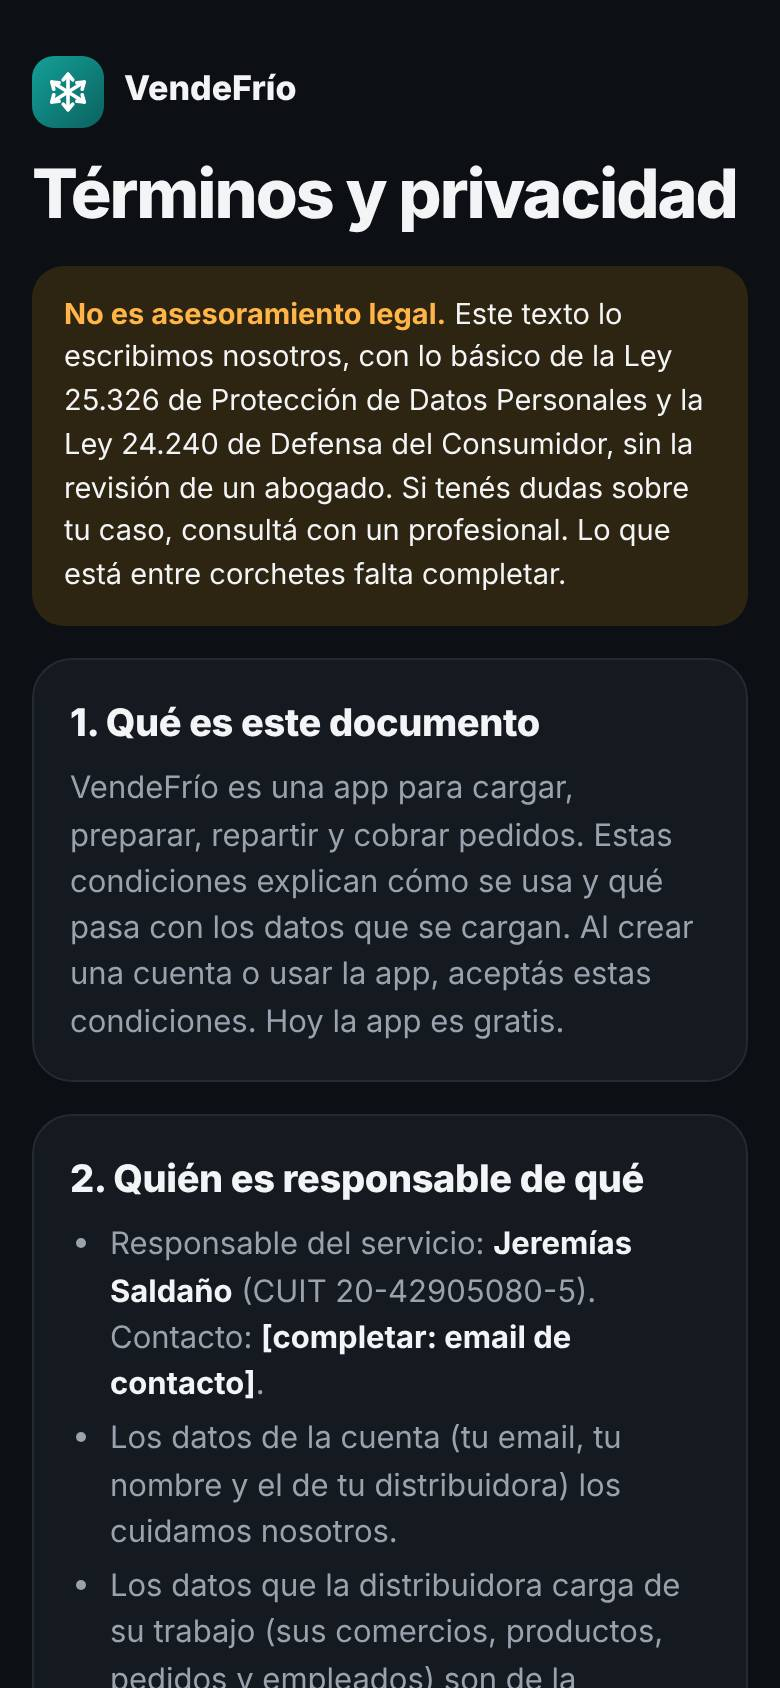
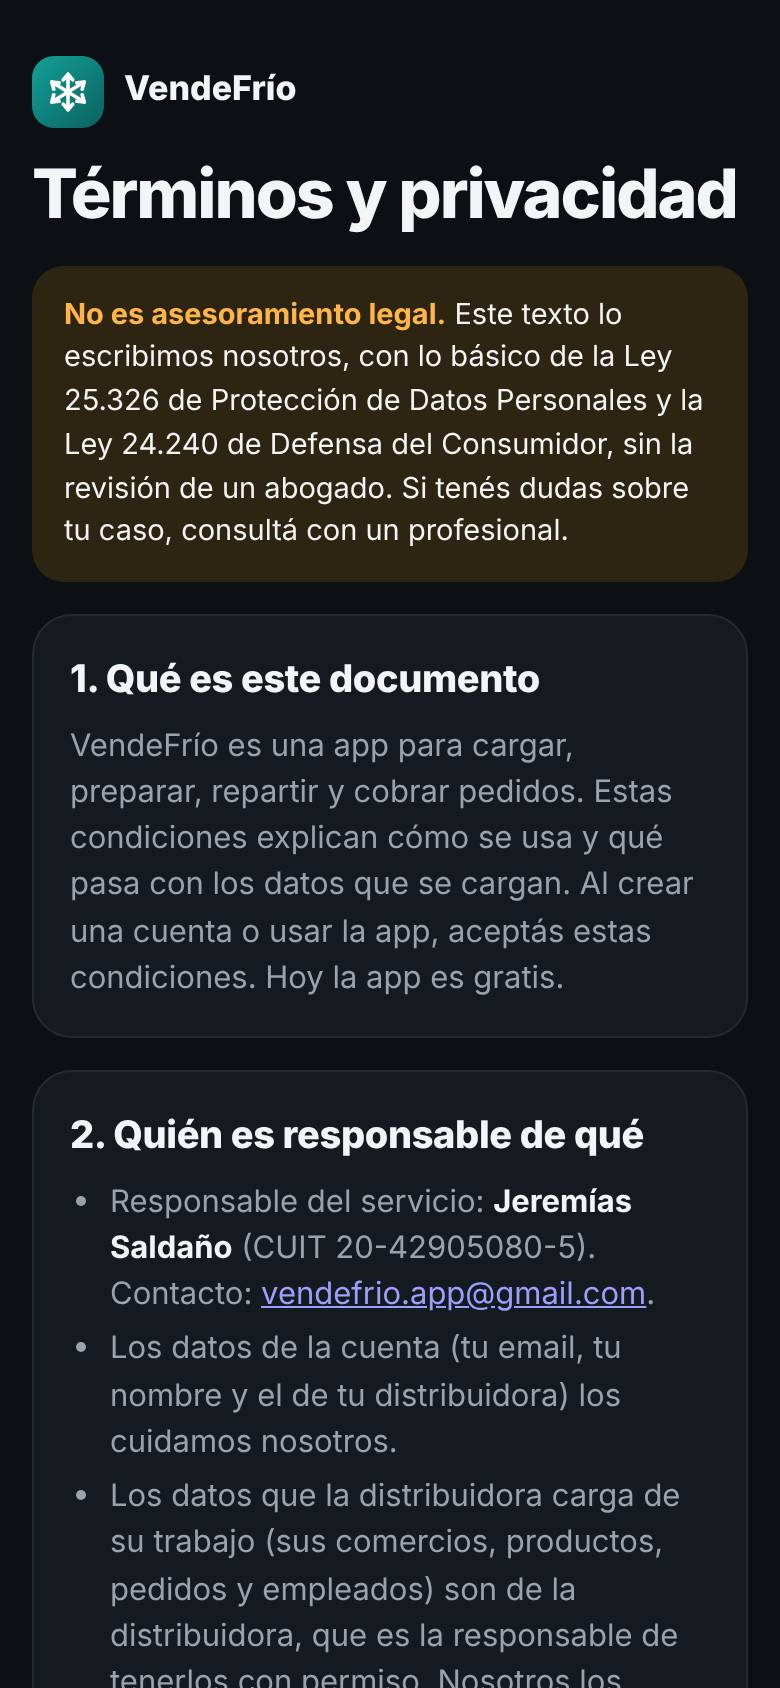
Mail de la app (vendefrio.app@gmail.com) en términos, presentación y README
Claude-Session: https://claude.ai/code/session_014MXfF8TC31rDLXevyJkTF8

Changed region(s): [[0.0923, 0.6469, 0.8615, 1.0], [0.0308, 0.3081, 0.9538, 0.6161]]

diff --git a/terminos.html b/terminos.html
@@ -12,20 +12,20 @@
 <main>
 <a class="marca" href="./" style="text-decoration:none;color:inherit"><img src="icon.svg" alt="">VendeFrío</a>
 <h1>Términos y privacidad</h1>
-<p class="borrador"><strong>No es asesoramiento legal.</strong> Este texto lo escribimos nosotros, con lo básico de la Ley 25.326 de Protección de Datos Personales y la Ley 24.240 de Defensa del Consumidor, sin la revisión de un abogado. Si tenés dudas sobre tu caso, consultá con un profesional. Lo que está entre corchetes falta completar.</p>
+<p class="borrador"><strong>No es asesoramiento legal.</strong> Este texto lo escribimos nosotros, con lo básico de la Ley 25.326 de Protección de Datos Personales y la Ley 24.240 de Defensa del Consumidor, sin la revisión de un abogado. Si tenés dudas sobre tu caso, consultá con un profesional.</p>
 <section class="card"><h2>1. Qué es este documento</h2><p>VendeFrío es una app para cargar, preparar, repartir y cobrar pedidos. Estas condiciones explican cómo se usa y qué pasa con los datos que se cargan. Al crear una cuenta o usar la app, aceptás estas condiciones. Hoy la app es gratis.</p></section>
-<section class="card"><h2>2. Quién es responsable de qué</h2><ul class="lista"><li>Responsable del servicio: <strong>Jeremías Saldaño</strong> (CUIT 20-42905080-5). Contacto: <strong>[completar: email de contacto]</strong>.</li><li>Los datos de la cuenta (tu email, tu nombre y el de tu distribuidora) los cuidamos nosotros.</li><li>Los datos que la distribuidora carga de su trabajo (sus comercios, productos, pedidos y empleados) son de la distribuidora, que es la responsable de tenerlos con permiso. Nosotros los guardamos y los mostramos solo para que la app le funcione, y no los usamos para nada más.</li></ul></section>
+<section class="card"><h2>2. Quién es responsable de qué</h2><ul class="lista"><li>Responsable del servicio: <strong>Jeremías Saldaño</strong> (CUIT 20-42905080-5). Contacto: <a href="mailto:vendefrio.app@gmail.com">vendefrio.app@gmail.com</a>.</li><li>Los datos de la cuenta (tu email, tu nombre y el de tu distribuidora) los cuidamos nosotros.</li><li>Los datos que la distribuidora carga de su trabajo (sus comercios, productos, pedidos y empleados) son de la distribuidora, que es la responsable de tenerlos con permiso. Nosotros los guardamos y los mostramos solo para que la app le funcione, y no los usamos para nada más.</li></ul></section>
 <section class="card"><h2>3. Qué datos guarda la app</h2><ul class="lista"><li>De la cuenta: email, nombre de la distribuidora y de cada persona del equipo, y sus roles. Son necesarios para tener cuenta; sin ellos solo se puede usar la app sin cuenta (modo personal).</li><li>Del trabajo: comercios (nombre, dirección, teléfono, ubicación), productos y precios, pedidos, entregas, cobros, saldos, gastos y visitas.</li><li>Lo que manda un comercio cuando pide por su link: su nombre y su pedido.</li><li>Fotos y firmas que se carguen como prueba de entrega, tickets de gastos o fotos de heladeras.</li><li>La ubicación del celular, solo cuando la persona la activa (por ejemplo, “compartir mi ubicación” mientras reparte o la navegación) y solo mientras está activa.</li><li>Si se conecta WhatsApp: los mensajes y audios que los comercios mandan a ese número, para armar el pedido.</li><li>Datos técnicos para resolver problemas: modelo de celular, versión de la app y errores, cuando alguien usa “Informar un problema”.</li></ul><p>Todo lo que no es de la cuenta es opcional: se carga solo si la distribuidora quiere.</p></section>
 <section class="card"><h2>4. Para qué se usan</h2><p>Solo para que la app funcione: mostrar los pedidos al equipo, armar rutas, calcular cobros y estadísticas, mandar avisos y resolver problemas. No se venden, no se alquilan y no se usan para publicidad.</p></section>
 <section class="card"><h2>5. Dónde se guardan y quién más los recibe</h2><p>Para funcionar, la app usa servicios de otras empresas. Algunos tienen sus servidores fuera de Argentina (por ejemplo, en Estados Unidos). Al aceptar estas condiciones, aceptás que los datos viajen a esos servicios, solo para lo que se explica acá:</p><ul class="lista"><li><strong>Google Firebase:</strong> guarda los datos en la nube, protegidos por reglas de acceso: cada distribuidora ve solo lo suyo. También manda las notificaciones.</li><li><strong>Vercel:</strong> es donde está publicada la app.</li><li><strong>Mapas y caminos:</strong> OpenStreetMap, los servidores de caminos de FOSSGIS y MapTiler reciben las ubicaciones y direcciones necesarias para dibujar el mapa y calcular la ruta.</li><li><strong>Anthropic (IA):</strong> solo si se prende la IA en la nube, recibe el texto que se dicta, se escribe o se pregunta, para entenderlo. Según sus condiciones, no lo usa para entrenar sus modelos.</li><li><strong>WhatsApp (Meta) y OpenAI:</strong> solo si se conecta WhatsApp. Meta pasa los mensajes y OpenAI pasa los audios a texto.</li><li><strong>El dictado por voz</strong> lo hace el navegador del celular (en Chrome, con servicios de Google).</li><li><strong>Mercado Pago:</strong> la app solo muestra tu alias o QR; el pago se hace en la app de Mercado Pago, con sus propias condiciones.</li><li>Sin cuenta (modo personal), los datos quedan solo en ese celular.</li></ul></section>
 <section class="card"><h2>6. Cómo se cuidan</h2><p>Los datos viajan cifrados y la nube solo deja entrar a las personas del equipo de cada distribuidora, según su rol. Cada persona cuida su contraseña o código, y la distribuidora puede dar de baja a un empleado cuando quiera.</p></section>
-<section class="card"><h2>7. Cuánto tiempo se guardan y cómo dar de baja la cuenta</h2><p>Mientras la cuenta esté activa. La ubicación en vivo se borra al dejar de compartirla. Para dar de baja la cuenta alcanza con pedirlo a <strong>[completar: email de contacto]</strong>, sin trámites ni costo. Sus datos se borran dentro de los 30 días, salvo lo que la ley obligue a guardar. Antes, conviene descargar un respaldo (Más › Cuenta). En modo personal, los datos se borran desde el mismo celular.</p></section>
-<section class="card"><h2>8. Tus derechos sobre tus datos</h2><p>Cualquier persona puede pedir ver qué datos suyos hay, corregirlos, actualizarlos o borrarlos, escribiendo a <strong>[completar: email de contacto]</strong>. Ver tus datos es gratis y se responde dentro de los 10 días corridos; las correcciones y los borrados se hacen dentro de los 5 días hábiles. Si sos un comercio o un empleado de una distribuidora, también se lo podés pedir a ella.</p><p>El titular de los datos personales tiene la facultad de ejercer el derecho de acceso a los mismos en forma gratuita a intervalos no inferiores a seis meses, salvo que se acredite un interés legítimo al efecto conforme lo establecido en el artículo 14, inciso 3 de la Ley N.º 25.326. La Agencia de Acceso a la Información Pública, en su carácter de Órgano de Control de la Ley N.º 25.326, tiene la atribución de atender las denuncias y reclamos que interpongan quienes resulten afectados en sus derechos por incumplimiento de las normas vigentes en materia de protección de datos personales.</p></section>
+<section class="card"><h2>7. Cuánto tiempo se guardan y cómo dar de baja la cuenta</h2><p>Mientras la cuenta esté activa. La ubicación en vivo se borra al dejar de compartirla. Para dar de baja la cuenta alcanza con pedirlo a <a href="mailto:vendefrio.app@gmail.com">vendefrio.app@gmail.com</a>, sin trámites ni costo. Sus datos se borran dentro de los 30 días, salvo lo que la ley obligue a guardar. Antes, conviene descargar un respaldo (Más › Cuenta). En modo personal, los datos se borran desde el mismo celular.</p></section>
+<section class="card"><h2>8. Tus derechos sobre tus datos</h2><p>Cualquier persona puede pedir ver qué datos suyos hay, corregirlos, actualizarlos o borrarlos, escribiendo a <a href="mailto:vendefrio.app@gmail.com">vendefrio.app@gmail.com</a>. Ver tus datos es gratis y se responde dentro de los 10 días corridos; las correcciones y los borrados se hacen dentro de los 5 días hábiles. Si sos un comercio o un empleado de una distribuidora, también se lo podés pedir a ella.</p><p>El titular de los datos personales tiene la facultad de ejercer el derecho de acceso a los mismos en forma gratuita a intervalos no inferiores a seis meses, salvo que se acredite un interés legítimo al efecto conforme lo establecido en el artículo 14, inciso 3 de la Ley N.º 25.326. La Agencia de Acceso a la Información Pública, en su carácter de Órgano de Control de la Ley N.º 25.326, tiene la atribución de atender las denuncias y reclamos que interpongan quienes resulten afectados en sus derechos por incumplimiento de las normas vigentes en materia de protección de datos personales.</p></section>
 <section class="card"><h2>9. Uso correcto</h2><p>La app es para trabajar. No se puede usar para cargar datos de otras personas sin permiso, ni para nada ilegal. Si alguien la usa así, podemos suspender su cuenta, avisándole antes salvo que sea grave.</p></section>
 <section class="card"><h2>10. Qué pasa si algo falla</h2><p>Hacemos lo posible para que la app funcione siempre y sin errores, pero puede haber cortes. No respondemos por fallas que no dependen de nosotros, como cortes de internet, problemas del celular o de los servicios de otras empresas del punto 5. Por eso recomendamos descargar un respaldo seguido (Más › Cuenta). Nada de esto quita los derechos que te da la Ley 24.240 si sos consumidor.</p></section>
 <section class="card"><h2>11. Precio</h2><p>Hoy VendeFrío es gratis. Si algún día se cobra, se avisa antes, con el precio y lo que incluye. Nada se cobra sin que lo aceptes, y podés darte de baja cuando quieras.</p></section>
 <section class="card"><h2>12. Cambios en estas condiciones</h2><p>Si estas condiciones cambian, la app lo avisa al menos 15 días antes de que empiecen a regir. Si no estás de acuerdo, podés dar de baja la cuenta y descargar tus datos antes.</p></section>
-<section class="card"><h2>13. Consultas y reclamos</h2><p>Escribinos a <strong>[completar: email de contacto]</strong> y te respondemos lo antes posible. Si sos consumidor, también podés reclamar en <a href="https://www.argentina.gob.ar/produccion/defensadelconsumidor" target="_blank" rel="noopener">Defensa del Consumidor</a>. Rige la ley argentina; si sos consumidor, podés hacerlo ante los tribunales de tu domicilio.</p></section>
+<section class="card"><h2>13. Consultas y reclamos</h2><p>Escribinos a <a href="mailto:vendefrio.app@gmail.com">vendefrio.app@gmail.com</a> y te respondemos lo antes posible. Si sos consumidor, también podés reclamar en <a href="https://www.argentina.gob.ar/produccion/defensadelconsumidor" target="_blank" rel="noopener">Defensa del Consumidor</a>. Rige la ley argentina; si sos consumidor, podés hacerlo ante los tribunales de tu domicilio.</p></section>
 <p class="pie">Última actualización: 22 de octubre de 2026 · <a href="presentacion.html">Qué es VendeFrío</a> · <a href="./">Abrir la app</a></p>
 </main>
 </body>

diff --git a/pruebas/bienvenida.prueba.js b/pruebas/bienvenida.prueba.js
@@ -58,6 +58,7 @@ test("bienvenida: probar con datos de ejemplo y empezar de cero", async ({ page 
     const [terminos] = await Promise.all([page.waitForEvent("popup"), filaTerminos.click()]);
     await expect(terminos.getByRole("heading", { name: "Términos y privacidad" })).toBeVisible();
     await expect(terminos.getByText("No es asesoramiento legal.")).toBeVisible();
+    await expect(terminos.getByRole("link", { name: "vendefrio.app@gmail.com" }).first()).toHaveAttribute("href", "mailto:vendefrio.app@gmail.com");
     await terminos.close();
 });
 

diff --git a/presentacion.html b/presentacion.html
@@ -32,7 +32,7 @@
 <h2>Tus datos son tuyos</h2>
 <p>Se guardan en la nube de tu distribuidora y solo los ve tu equipo. Podés descargar un respaldo cuando quieras. Más detalle en <a href="terminos.html">Términos y privacidad</a>.</p>
 </section>
-<p class="pie"><a href="terminos.html">Términos y privacidad</a> · <a href="./">Abrir la app</a></p>
+<p class="pie"><a href="terminos.html">Términos y privacidad</a> · <a href="mailto:vendefrio.app@gmail.com">vendefrio.app@gmail.com</a> · <a href="./">Abrir la app</a></p>
 </main>
 </body>
 </html>

diff --git a/sw.js b/sw.js
@@ -1,7 +1,7 @@
 // =====================================================
 // VendeFrío - Service Worker (v164 - Estilo nuevo)
 // =====================================================
-const CACHE_NAME = "vendefrio-v212";
+const CACHE_NAME = "vendefrio-v213";
 const ARCHIVOS = [
   "./",
   "./index.html",

diff --git a/PROJECT_STATE.md b/PROJECT_STATE.md
@@ -1046,7 +1046,7 @@ El dueño revisó lo que Claude decidió solo en las Etapas 5 y 6 (M12). Le gust
 - [ ] **T156 — Elegir qué se ve en Inicio.** En Más > Apariencia, un grupo "Qué se ve en Inicio" con una llave por cada tarjeta (Próxima parada, Suelen pedir los…, avisos, resumen del día y las demás). "Suelen pedir los…" arranca apagada para todos. Se guarda en cada celular. Esfuerzo: Medio.
 - [ ] **T157 — Tutorial interactivo para quien recién entra.** En vez de solo la lista de "Primeros pasos", un recorrido que señala cada botón en la pantalla real y explica qué hace: cargar un producto, un comercio y el primer pedido, Rutas y Más. Se puede saltear y volver a ver desde Más > Seguridad y ayuda. Corto y liviano para celulares baratos. Esfuerzo: Alto.
 - [ ] **T158 — Mucha más personalización en Apariencia.** Al dueño le gustan los ajustes de hoy y quiere muchos más: más colores principales (y uno a elección), más temas, forma de los botones, tamaño de los íconos, fondo de Inicio y estilo de las tarjetas, con vista previa. Que todos funcionen de verdad y no traben la app. Esfuerzo: Alto.
-- [x] **T159 — Repaso casero de los términos (en lugar de M19).** Claude revisa los términos y la privacidad de T87 con lo básico de la ley argentina (Ley 25.326 de datos personales y Ley 24.240 de defensa del consumidor). Los escribe claros y les agrega que no son un asesoramiento de un abogado. Esfuerzo: Medio. **Hecha (2026-10-22):** `terminos.html` reescrito en 13 puntos: aviso de que no es asesoramiento legal, quién responde por qué datos, todos los servicios que reciben datos (Firebase, Vercel, mapas, Anthropic, Meta y OpenAI con WhatsApp, dictado del navegador, Mercado Pago) y su envío fuera del país, baja gratis por email con borrado en 30 días, plazos de la Ley 25.326 (ver gratis en 10 días, corregir o borrar en 5 hábiles) con la leyenda obligatoria de la Agencia, responsabilidad sin quitar derechos de la Ley 24.240, precio (hoy gratis), cambios avisados 15 días antes y reclamos. Responsable: Jeremías Saldaño (CUIT 20-42905080-5), sin domicilio por pedido del dueño. Falta el email de contacto (el dueño piensa crear uno de la app).
+- [x] **T159 — Repaso casero de los términos (en lugar de M19).** Claude revisa los términos y la privacidad de T87 con lo básico de la ley argentina (Ley 25.326 de datos personales y Ley 24.240 de defensa del consumidor). Los escribe claros y les agrega que no son un asesoramiento de un abogado. Esfuerzo: Medio. **Hecha (2026-10-22):** `terminos.html` reescrito en 13 puntos: aviso de que no es asesoramiento legal, quién responde por qué datos, todos los servicios que reciben datos (Firebase, Vercel, mapas, Anthropic, Meta y OpenAI con WhatsApp, dictado del navegador, Mercado Pago) y su envío fuera del país, baja gratis por email con borrado en 30 días, plazos de la Ley 25.326 (ver gratis en 10 días, corregir o borrar en 5 hábiles) con la leyenda obligatoria de la Agencia, responsabilidad sin quitar derechos de la Ley 24.240, precio (hoy gratis), cambios avisados 15 días antes y reclamos. Responsable: Jeremías Saldaño (CUIT 20-42905080-5), sin domicilio por pedido del dueño. Contacto: vendefrio.app@gmail.com (mail principal del proyecto, también en `presentacion.html` y `README.md`).
 - [ ] **T161 — "Listas de precios" en Más.** Las listas ya existen (T78): se arman desde el catálogo (⋯ > "Precios por lista") y cada comercio tiene la suya en su ficha. Sumar en Más una opción "Listas de precios" para crear, renombrar y borrar listas (por ejemplo Supermercados, Almacenes y Kioscos) y cargar el precio de cada producto (con "subir todo un %" y redondeo, como ya hay). Al armar el pedido, se elige cualquier lista (arranca con la del comercio) y el pedido guarda los precios de esa lista. Esfuerzo: Alto (revisar si toca `firestore.rules`).
 - [ ] **T162 — Exportar una lista de precios a planilla y como folleto.** Desde la lista: "Exportar a planilla" (CSV para Excel o Google Sheets, como T47) y "Folleto para imprimir", una hoja prolija con el nombre y los datos de la distribuidora, los productos por marca y sus precios, para imprimir o mandar en PDF y dejarle a los comercios. Esfuerzo: Medio.
 - [ ] **T163 — Probar otro servidor de caminos gratis (Valhalla de FOSSGIS).** Alternativa gratis a M13: el mismo grupo que da el OSRM de hoy tiene un servidor Valhalla, sin clave, con perfil de moto de verdad y las indicaciones en español. Sumarlo detrás de un ajuste ("Servidor de caminos: OSRM o Valhalla") en `navegacion.js`, con OSRM como respaldo si falla. Compararlos en M22. Esfuerzo: Medio.

diff --git a/README.md b/README.md
@@ -3,6 +3,7 @@
 Plataforma móvil (PWA) para distribuidoras que venden y reparten productos a almacenes, kioscos y supermercados. El pedido se carga una sola vez, desde el celular, y acompaña toda la operación: venta, preparación, reparto y entrega.
 
 - **Repositorio:** `EscabCodex/vendefrio-v2` (rama `main`, fuente de verdad)
+- **Mail de la app (contacto principal):** vendefrio.app@gmail.com
 - **App del equipo (`main`):** https://vendefrio-v2.vercel.app/
 - **Tareas sin probar a mano (`desarrollo`):** https://vendefrio-v2-git-desarrollo-escab-codex.vercel.app/
 - **Pruebas automáticas:** `npm test` (carpeta `pruebas`; capturas en `capturas`)
